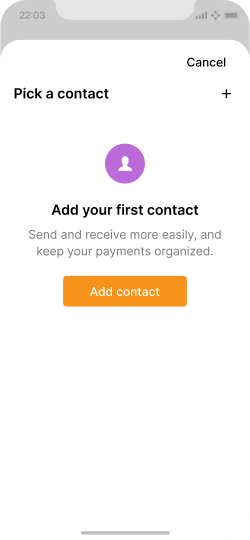
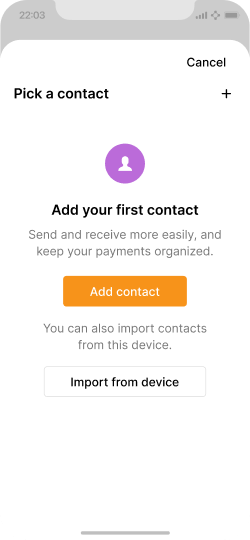
Image addition & image alt texts

Changed region(s): [[0.168, 0.5926, 0.84, 0.6519], [0.28, 0.6815, 0.728, 0.7407]]

diff --git a/guide/payments/contacts.md b/guide/payments/contacts.md
@@ -1,7 +1,7 @@
 ---
 layout: guide
 title: Contacts
-description: An overview of how to help users maintain their financial privacy while using bitcoin.
+description: Design reference for a contacts feature in bitcoin wallets.
 nav_order: 4
 parent: Payments
 permalink: /guide/payments/contacts/
@@ -10,109 +10,109 @@ image: /assets/images/guide/payments/activity/contacts-preview.jpg
 image_base: /assets/images/guide/payments/contacts/
 imagesAddContact:
     - file: manual-add-empty
-      alt:
-      caption: Initially, a walllets contact list is empty.
+      alt: Empty contact list screen
+      caption: Initially, a walllets contact list is empty. Importing them from the device can be made available.
     - file: manual-add-first-contact-name
-      alt:
+      alt: Screen asking the user to enter a name for a new contact
       caption: All a new contact needs is a name. Other information can be added later.
     - file: manual-add-contact-no-addresses
-      alt:
+      alt: A contact with no added information
       caption: New contacts can already be assigned to outgoing invoices. But since no address is assigned, no outgoing payments can be made yet.
     - file: manual-add-contact-add-address
-      alt:
+      alt: Screen asking the user to enter a bitcoin address
       caption: Users can manually enter addresses to add.
     - file: manual-add-contact-add-address-details
-      alt:
+      alt: Address entry screen with expanded information about supported addresses
       caption: Information about supported address formats should be readily available.
     - file: manual-add-contact-add-address-valid
-      alt:
+      alt: Address entry screen with inline validation for a Lightning address
       caption: Inline validation lets users know about if addresses are accepted.
     - file: manual-add-contact-add-address-valid-on-chain
-      alt:
+      alt: Address entry screen with inline validation for an on-chain address
       caption: Particular properties of address types can be pointed out right away.
     - file: manual-add-contact-with-address
-      alt:
+      alt: A contact with a Lightning address assigned
       caption: A contact with a Lightning address associated.
     - file: manual-add-contact-with-on-chain-address
-      alt:
+      alt: A contact with an on-chain address assigned
       caption: A contact with an on-chain. Once a paymen is made to the address, it disappears from this list.
 imagesMultiAddressContact:
     - file: multi-address-contact
-      alt:
+      alt: Contact screen with multiple transactions and addresses
       caption: Example of a contact with multiple transactions and addresses.
     - file: multi-address-contact-options
-      alt:
+      alt: Options for editing a contacts screen
       caption: Options for editing and organizing the contact.
     - file: multi-address-contact-edit-labels
-      alt:
+      alt: Contacts screen in edit mode
       caption: Edit mode allows for re-ordering, deleting and renaming addresses.
     - file: multi-address-contact-address-detail
-      alt:
+      alt: Contact screen with an address details modal
       caption: Address details and options can be available on tap.
 imagesImportAddress:
     - file: lightning-address-input
-      alt:
+      alt: Modal showing that a Lightning address was detected on the clipboard
       caption: A modal is shown when an address has been imported via the clipboard, QR code scan, link click, etc.
     - file: lightning-address-input-add-contact
-      alt:
+      alt: Modal showing that a Lightning address was detected, with the 'Add contact' tab active
       caption: The user has switched to the "Add contact" tab.
     - file: lightning-address-input-new-contact
-      alt:
+      alt: Contact screen with the Lightning address assigned
       caption: The new contact is created with the address associated.
 imagesPayInvoice:
     - file: pay-invoice-with-details
-      alt:
+      alt: Invoice modal with rich details
       caption: This invoice includes rich data and the included address was automatically matched to an existing contact.
     - file: pay-invoice
-      alt:
+      alt: Invoice modal with minimal payment details
       caption: This is a minimal invoice, no matching contact could be identified.
     - file: sending-pick-contact
-      alt:
+      alt: Screen with a list of contacts to choose from
       caption: Tapping "Add contact" presents the user with a contact list modal.
     - file: pay-invoice-with-contact
-      alt:
+      alt: Invoice screen with a contact assigned
       caption: A basic invoice with an assigned contact.
     - file: pay-invoice-contact-with-tx
-      alt:
+      alt: Contact with a single transaction assigned
       caption: A contact with an assigned transaction, but no re-usable addresses.
     - file: pay-invoice-contact-with-tx-and-address
-      alt:
+      alt: Contact with a transaction and an address assigned
       caption: A contact with an assigned transaction and a re-usable address.
 imagesHome:
     - file: sending-home
-      alt:
+      alt: Home screen with amount input
       caption: The user enters an amount and taps "Pay".
     - file: sending-pick-contact
-      alt:
+      alt: Screen with a list of contacts to choose from
       caption: Next, the user is asked to choose a contact to send to.
     - file: sending-review
-      alt:
+      alt: Invoice screen with a contact assigned
       caption: Final review of the payment before sending it.
 imagesReceive:
     - file: receive-home
-      alt:
+      alt: Home screen with amount input
       caption: The user enters an amount and taps "Request".
     - file: receive-qr
-      alt:
+      alt: Payment request screen
       caption: An invoice screen with minimal information.
     - file: receive-qr-with-contact
-      alt:
+      alt: Payment request screen with a contact assigned
       caption: The same invoice with a contact assigned.
 imagesActivity:
     - file: activity
-      alt:
+      alt: Activity screen showing transactions with minimal information
       caption: By default, payments contain little to no contextual information.
     - file: activity-annotated
-      alt:
+      alt: Activity screen showing transactions with assigned contacts
       caption: Assigning contacts to payment makes them much easier to understand and work with.
     - file: activity-transaction
-      alt:
+      alt: Transaction details
       caption: Transaction detail screens should have convenient options to assign a contact.
     - file: sending-pick-contact
-      alt:
+      alt: Screen with a list of contacts to choose from
       caption: The user picks a contact in a slide-up modal.
     - file: activity-transaction-annotated
-      alt:
+      alt: Transaction details with assigned contact
       caption: A payment with an assigned contact.
 
 ---
@@ -122,7 +122,7 @@ imagesActivity:
     retina = "/assets/images/guide/payments/contacts/contacts-header@2x.jpg"
     mobile = "/assets/images/guide/payments/contacts/contacts-header-mobile.jpg"
     mobileRetina = "/assets/images/guide/payments/contacts/contacts-header-mobile@2x.jpg"
-    alt-text = ""
+    alt-text = "Illustration of large contact cards"
     width = 1600
     height = 400
     layout = "full-width"
